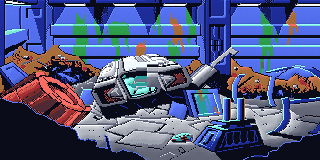
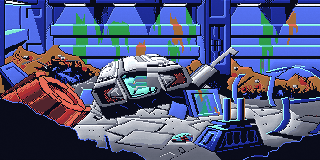
Style pass 3: third category, worn artificial (partly rounded by years of use), with per-room worn zones
Claude-Session: https://claude.ai/code/session_01KMMpWo1pAxVCtPqbSi1RBM

diff --git a/tools/paint/restyle.py b/tools/paint/restyle.py
@@ -111,6 +111,7 @@ def classify(lab, comp, n, zones, rows, height=190, top=10):
     def to_row(y):
         return (y - top) * rows / height
     org = [(x0, to_row(y0), x1, to_row(y1)) for (x0, y0, x1, y1) in zones.get("organic", [])]
+    worn = [(x0, to_row(y0), x1, to_row(y1)) for (x0, y0, x1, y1) in zones.get("worn", [])]
     flat = [(x0, to_row(y0), x1, to_row(y1), mode, amp) for (x0, y0, x1, y1, mode, amp) in zones.get("flat", [])]
     info = {}
     for c in range(n):
@@ -125,6 +126,8 @@ def classify(lab, comp, n, zones, rows, height=190, top=10):
         mode, amp, box = "organic", 0.0, None
         if any(x0 <= cx <= x1 and y0 <= cy <= y1 for (x0, y0, x1, y1) in org):
             pass
+        elif any(x0 <= cx <= x1 and y0 <= cy <= y1 for (x0, y0, x1, y1) in worn):
+            mode = "worn"            # built as a structured object, now rounded and roughened by years of use
         else:
             hit = [z for z in flat if z[0] <= cx <= z[2] and z[1] <= cy <= z[3]]
             if hit:
@@ -167,7 +170,7 @@ def restyle(path, rows=160, top=10, height=190, seed=3, light=0.07, edge=0.12, g
         m = comp == c
         cnt = m.sum()
         mode, amp_z, box = info[c]
-        class_map[m] = 1 if mode == "organic" else 2
+        class_map[m] = {"organic": 1, "worn": 3}.get(mode, 2)
         if cnt < 30 or lab[m][0] == 0:
             continue
         ys_, xs_ = np.nonzero(m)
@@ -179,6 +182,11 @@ def restyle(path, rows=160, top=10, height=190, seed=3, light=0.07, edge=0.12, g
             t = (yy - y0) / max(1, y1 - y0)
         elif mode == "flat":
             amp = amp_z
+            t = (yy - y0) / max(1, y1 - y0)
+        elif mode == "worn":
+            if y1 - y0 < 6:
+                continue
+            amp = light * 1.6
             t = (yy - y0) / max(1, y1 - y0)
         elif mode == "cyl_v":            # a vertical drum or pipe: bright on the lit left, dark on the right
             bx0, by0, bx1, by1 = box
@@ -193,7 +201,7 @@ def restyle(path, rows=160, top=10, height=190, seed=3, light=0.07, edge=0.12, g
     # volume (organic regions only): lit from the top left, rounded over a few pixels; lit = warm, shaded = cool
     lit_total = np.zeros((h, w), np.float32)
     for c in range(n):
-        if info[c][0] != "organic":
+        if info[c][0] not in ("organic", "worn"):
             continue
         m = comp == c
         cnt = m.sum()
@@ -206,7 +214,7 @@ def restyle(path, rows=160, top=10, height=190, seed=3, light=0.07, edge=0.12, g
         mx = np.abs(lit).max()
         if mx <= 0:
             continue
-        lit_total = np.where(m, lit / mx, lit_total)
+        lit_total = np.where(m, lit / mx * (0.55 if info[c][0] == "worn" else 1.0), lit_total)
     k = np.where(lit_total > 0, 1 + volume * lit_total, 1 + volume * 0.8 * lit_total)
     k = np.clip(k, 0.72, 1.2)
     out = out * k[..., None]
@@ -220,7 +228,7 @@ def restyle(path, rows=160, top=10, height=190, seed=3, light=0.07, edge=0.12, g
         nb_comp = shifted(comp, dy, dx)
         nb_L = shifted(L, dy, dx)
         diff = (nb_comp != comp) & (np.abs(nb_L - L) > 14)
-        e_here = np.where(class_map == 2, edge * 1.6, edge)[..., None]
+        e_here = np.where(class_map == 2, edge * 1.6, np.where(class_map == 3, edge * 1.25, edge))[..., None]
         if sign > 0:
             sel = diff & (nb_L < L)
             out = np.where(sel[..., None], out * (1 + e_here), out)

diff --git a/tools/paint/build_act1.py b/tools/paint/build_act1.py
@@ -11,18 +11,21 @@ FULL = (0, 10, 320, 200)
 # 'flat' boxes: (x0, y0, x1, y1, mode, amp) in screen coordinates; mode 'flat', 'cyl_v' (drum), 'cyl_h' (tube).
 # 'organic' boxes win over 'flat' boxes. Brown (rust, rubble) and green (slime) regions are always organic.
 ZONES = {
-    "garbage_mountain": {"flat": [(0, 10, 320, 92, "flat", 0.05)]},
-    "junk_field": {"flat": [(0, 10, 320, 44, "flat", 0.05)]},
-    "junk_tower": {"flat": [(232, 10, 320, 138, "flat", 0.05)]},
+    "garbage_mountain": {"flat": [(0, 10, 320, 92, "flat", 0.05)],
+                         "worn": [(92, 72, 198, 152), (0, 92, 92, 162), (192, 62, 240, 105), (182, 104, 224, 142), (196, 150, 252, 190), (262, 80, 320, 145)]},
+    "junk_field": {"flat": [(0, 10, 320, 44, "flat", 0.05)],
+                   "worn": [(36, 95, 110, 150), (0, 35, 60, 160), (150, 10, 320, 100), (150, 10, 215, 100), (48, 135, 108, 175), (175, 95, 290, 160)]},
+    "junk_tower": {"flat": [(232, 10, 320, 138, "flat", 0.05)],
+                   "worn": [(0, 35, 120, 150), (15, 95, 170, 180), (110, 20, 235, 45), (240, 115, 310, 160)]},
     "wire_tube": {"flat": [(18, 78, 312, 160, "cyl_h", 0.40)]},
-    "robot_head": {"flat": [(205, 100, 262, 200, "flat", 0.05)]},
-    "conveyor": {"flat": [FULL + ("flat", 0.05)], "organic": [(0, 148, 185, 200), (165, 155, 250, 200)]},
+    "robot_head": {"flat": [(205, 100, 262, 200, "flat", 0.05)], "worn": [(175, 58, 320, 200), (0, 40, 100, 130)]},
+    "conveyor": {"flat": [FULL + ("flat", 0.05)], "worn": [(0, 148, 185, 200), (165, 155, 250, 200)]},
     "rail_west": {"flat": [FULL + ("flat", 0.05)]},
     "crane_cabin": {"flat": [FULL + ("flat", 0.05)]},
     "rail_walk": {"flat": [(72, 10, 232, 160, "cyl_v", 0.30), FULL + ("flat", 0.05)]},
-    "rat_lair": {},
-    "mallard_bay": {"flat": [(190, 10, 320, 50, "flat", 0.05)]},
-    "mallard_bay_l": {"flat": [(190, 10, 320, 50, "flat", 0.05)]},
+    "rat_lair": {"worn": [(150, 100, 200, 135), (250, 55, 275, 108)]},
+    "mallard_bay": {"flat": [(190, 10, 320, 50, "flat", 0.05)], "worn": [(90, 80, 285, 155), (160, 22, 205, 58), (165, 140, 235, 182), (28, 72, 85, 125)]},
+    "mallard_bay_l": {"flat": [(190, 10, 320, 50, "flat", 0.05)], "worn": [(90, 80, 285, 155), (160, 22, 205, 58), (165, 140, 235, 182), (28, 72, 85, 125)]},
     "cockpit": {"flat": [FULL + ("flat", 0.05)], "organic": [(105, 118, 190, 200), (0, 95, 78, 195)]},
 }
 OUT = "../../assets/backgrounds_act1_restyle/"   # staging folder: moved into assets/backgrounds when the rooms are rewired
